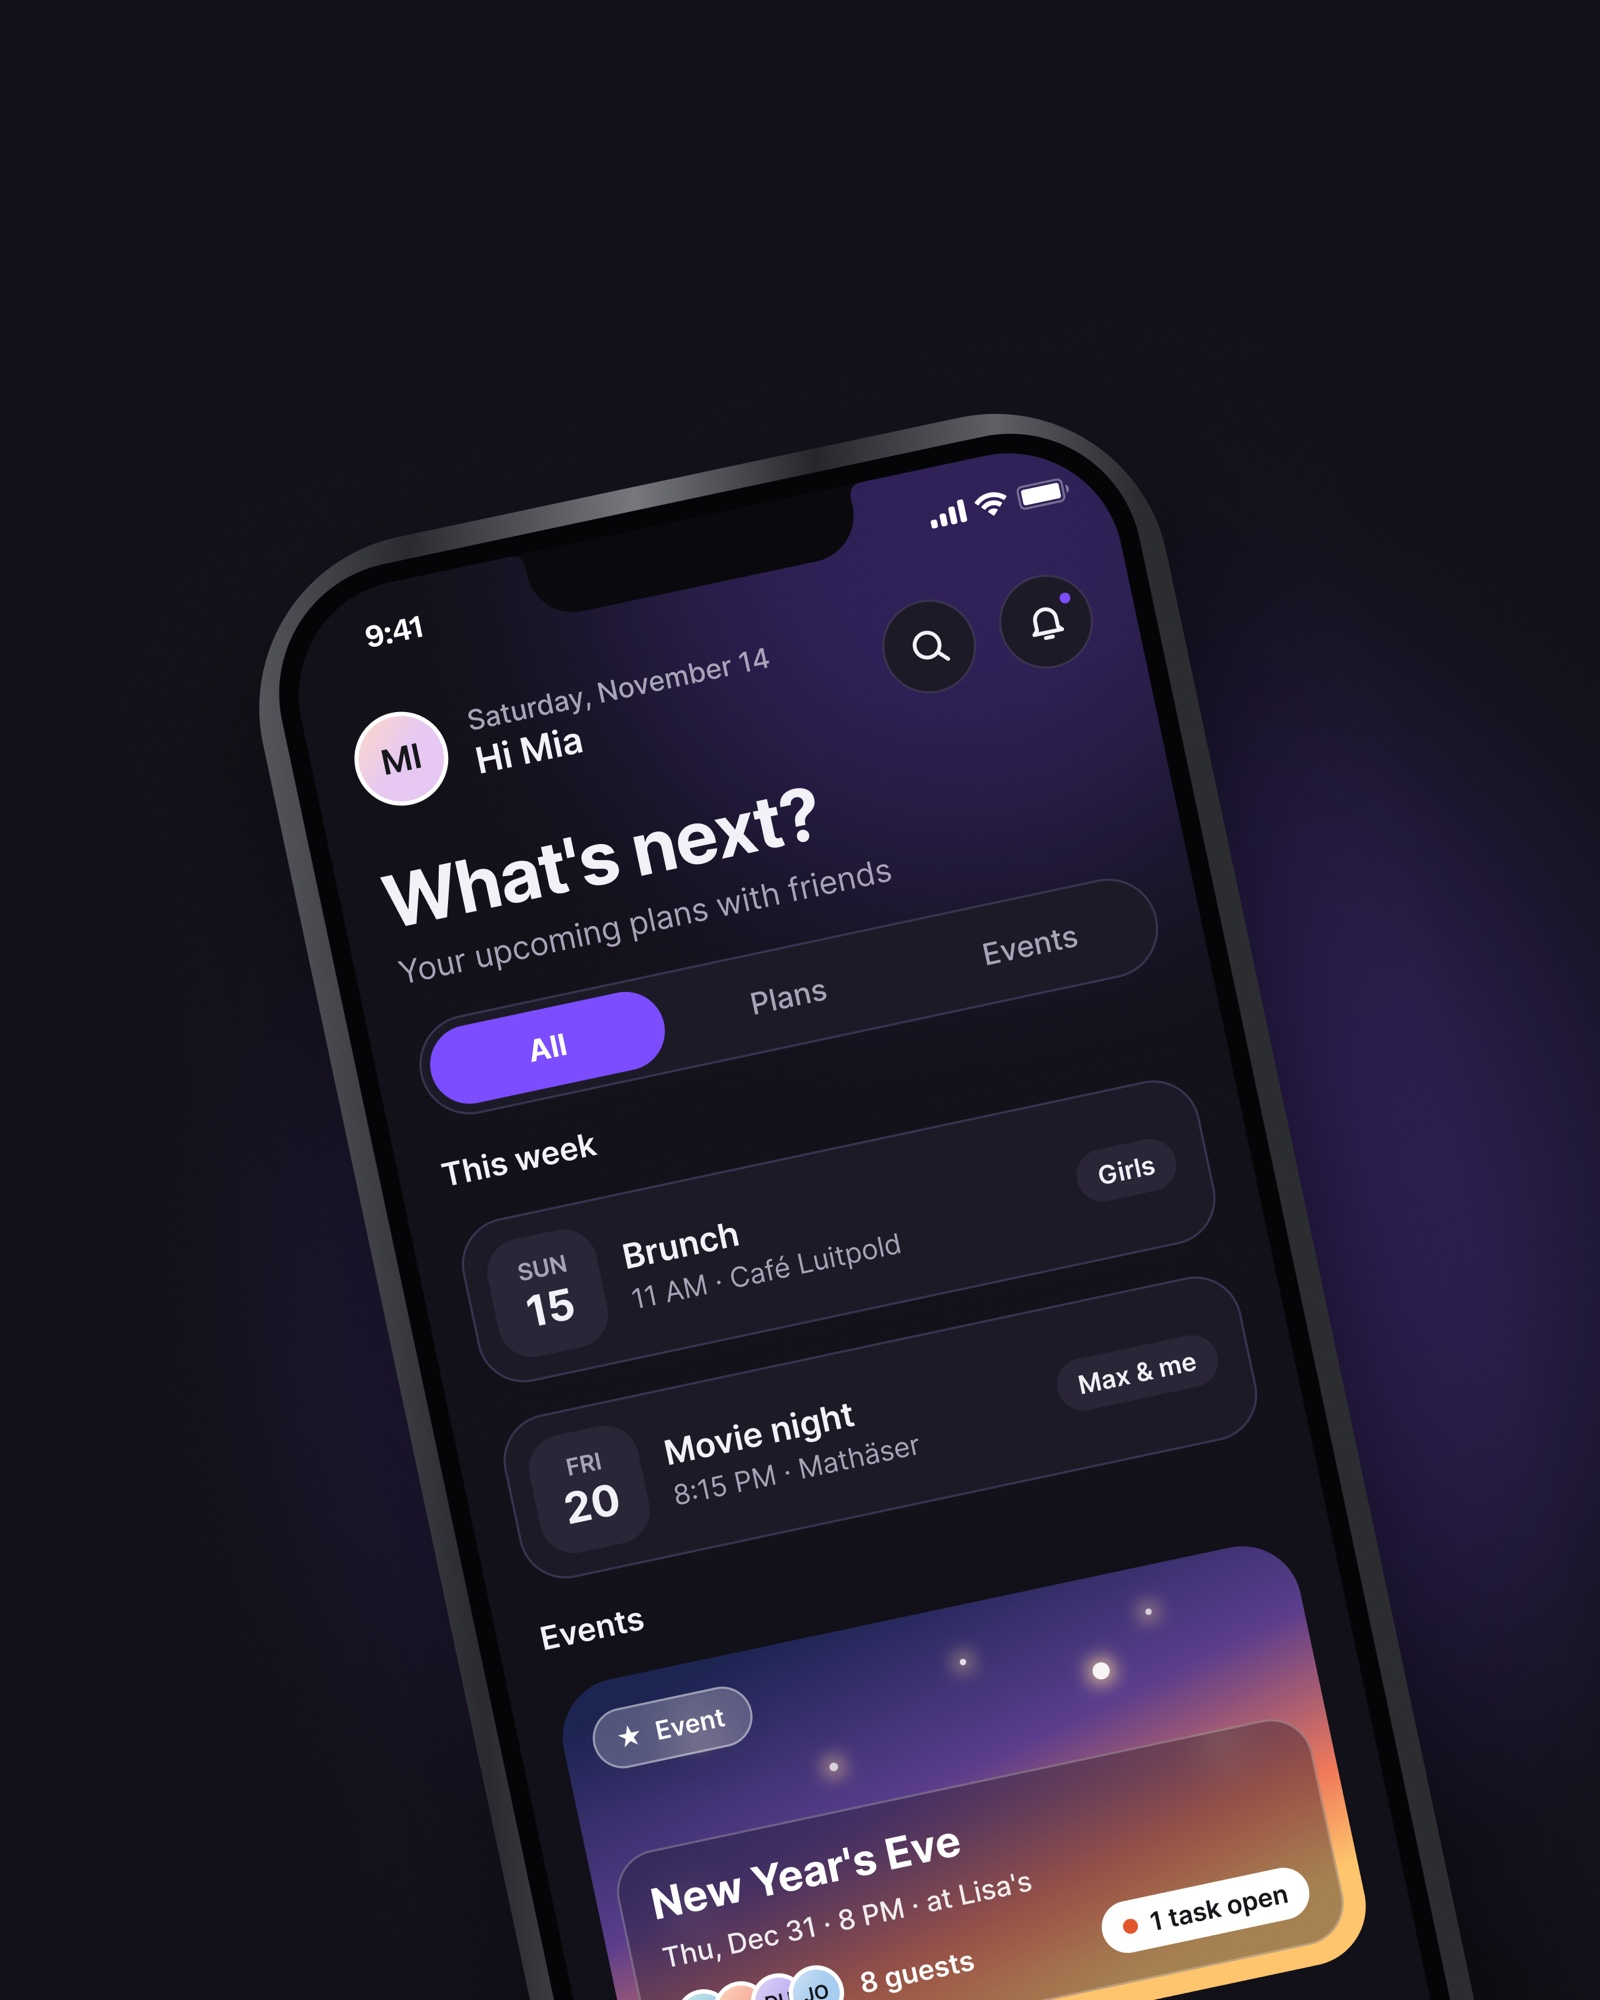
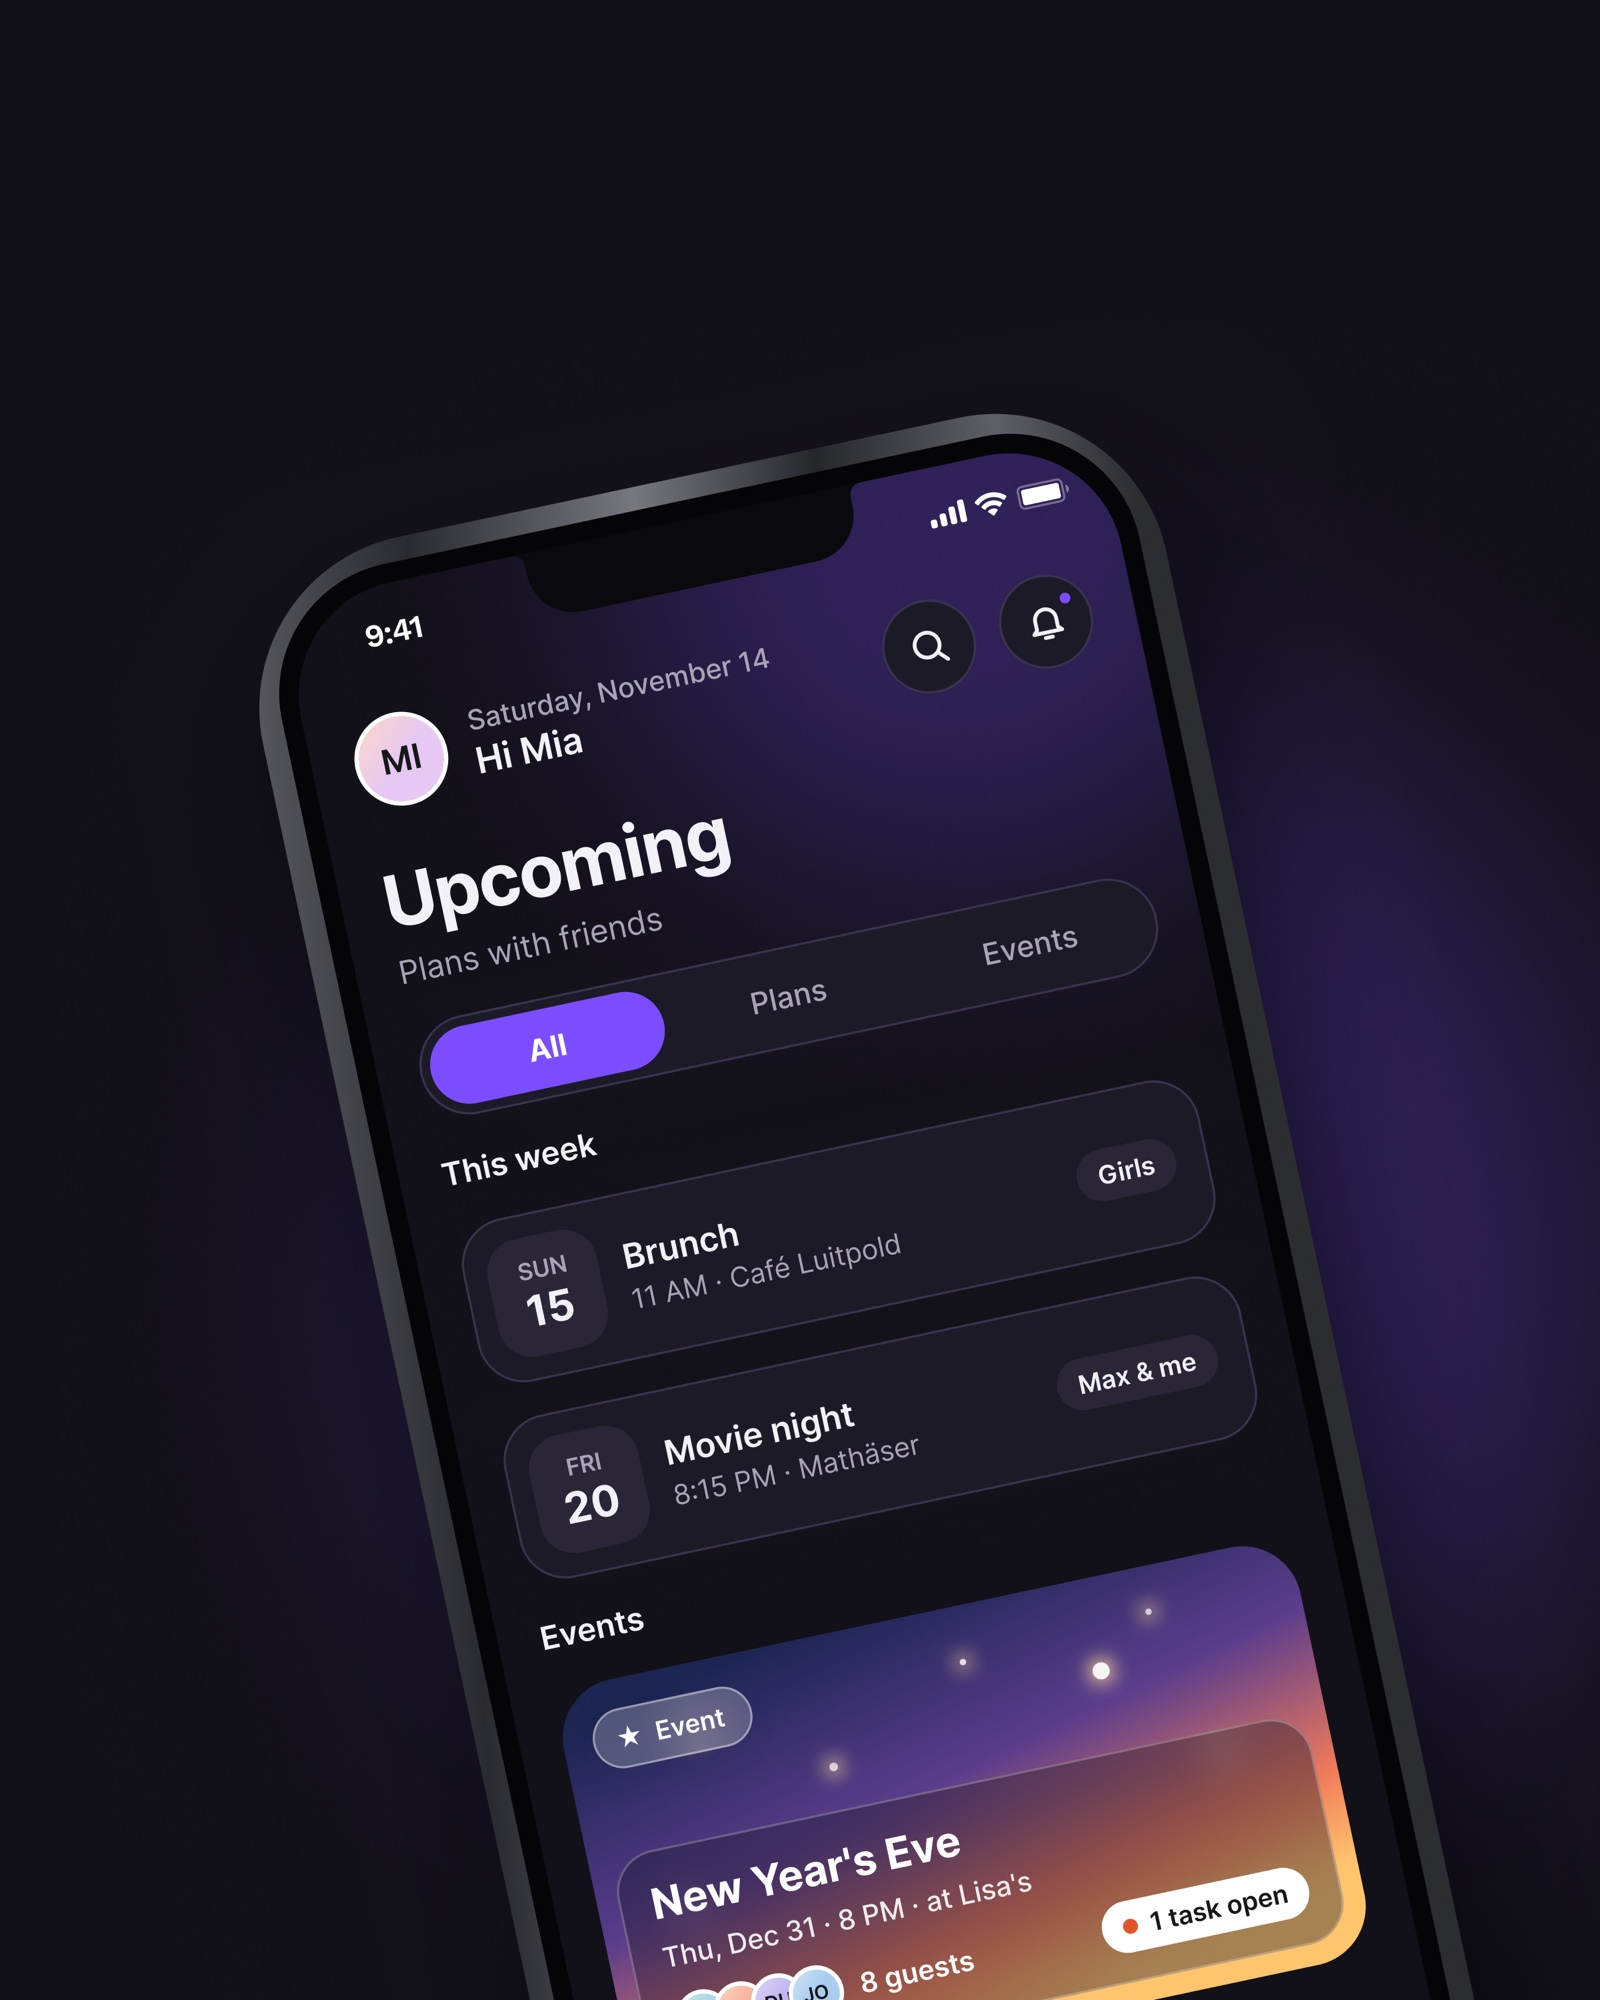
sync.-Titelbild: „Upcoming“ statt „What’s next?“

Changed region(s): [[0.25, 0.372, 0.5625, 0.496]]

diff --git a/projekte.html b/projekte.html
@@ -50,7 +50,7 @@
     <li class="pj-item">
       <article class="pj-card pj-reveal pj-soon" tabindex="0" aria-labelledby="pjSync" aria-describedby="pjSoon">
         <span class="pj-media">
-          <img src="media/projekte/cover-sync.jpg" width="1600" height="2000" decoding="async" alt="sync. auf einem iPhone: die Übersicht „What’s next?“ mit Brunch, Movie night und New Year’s Eve.">
+          <img src="media/projekte/cover-sync.jpg" width="1600" height="2000" decoding="async" alt="sync. auf einem iPhone: die Übersicht „Upcoming“ mit Brunch, Movie night und New Year’s Eve.">
           <span class="pj-veil" id="pjSoon">
             <span class="pj-veil-n" id="pjSync">sync.</span>
             <span class="pj-veil-t">( in progress )</span>

diff --git a/projekte-en.html b/projekte-en.html
@@ -50,7 +50,7 @@
     <li class="pj-item">
       <article class="pj-card pj-reveal pj-soon" tabindex="0" aria-labelledby="pjSync" aria-describedby="pjSoon">
         <span class="pj-media">
-          <img src="media/projekte/cover-sync.jpg" width="1600" height="2000" decoding="async" alt="sync. on an iPhone: the “What’s next?” overview with brunch, a movie night and New Year’s Eve.">
+          <img src="media/projekte/cover-sync.jpg" width="1600" height="2000" decoding="async" alt="sync. on an iPhone: the “Upcoming” overview with brunch, a movie night and New Year’s Eve.">
           <span class="pj-veil" id="pjSoon">
             <span class="pj-veil-n" id="pjSync">sync.</span>
             <span class="pj-veil-t">( in progress )</span>
